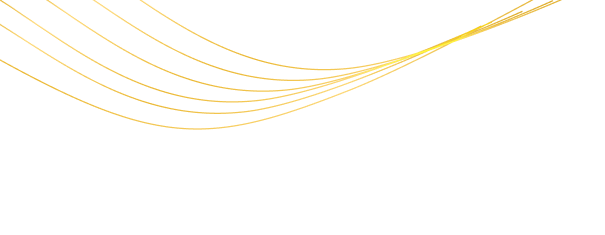
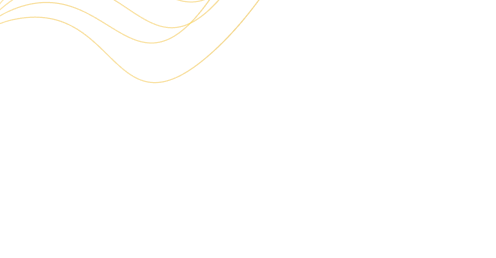
feat: hamburger final edits

diff --git a/src/styles/Hamburger.module.css b/src/styles/Hamburger.module.css
@@ -44,7 +44,7 @@
 .info{
     text-align: right;
     margin-top: 1rem;
-    margin-right: 1rem; 
+    margin-right: 2rem; 
     font-family: "Mulish";
 }
 .menu {
@@ -54,6 +54,7 @@
     display: flex;
     z-index: 20;
     position: fixed;
+    width: 100vw;
 }
 i {
   margin-left: 0.4rem;
@@ -92,8 +93,10 @@ i {
 .map {
   background: rgba(39, 39, 39, 0.4);
   border-radius: 14px;
+  overflow: hidden;
   margin: 3rem;
   width: 30%;
+  backdrop-filter: blur(2px);
   border: 2px solid #4e3800;
 }
 
@@ -125,24 +128,40 @@ i {
     bottom: 0;
     left: -17px;
     width: 17%;
+    mix-blend-mode: hard-light;
 }
 .br{
     position: absolute;
     bottom: 0;
     right: 0px;
     width: 17%;
+    mix-blend-mode: hard-light;
 }
 .tl{
     position: absolute;
     top: 0;
     left: -10px;
     width: 24%;
+    mix-blend-mode: hard-light;
 }
-.tr{
+.icon{
+    position: absolute;
+    width: 18px;
+    right: 2px;
+}
+.mt{
     position: absolute;
     top: 0;
-    right: 0px;
-    width: 30%;
+    left: 850px;
+    width: 23%;
+    mix-blend-mode: hard-light;
+}
+.mb{
+    position: absolute;
+    bottom: 0;
+    left: 600px;
+    width: 14%;
+    mix-blend-mode: hard-light;
 }
 .hamFull{
     width: 100vw;
@@ -154,6 +173,7 @@ i {
     content: '';
     display: block;
     position: absolute;
+    border-radius: 24px;
     background: linear-gradient(94.75deg, #D19A08 0%, #FEDB7E 27.6%, #EAC460 50%, #D19A08 66.15%, #D19A08 100%);
     width: 150px;
     left: 180px;
@@ -181,7 +201,10 @@ i {
     .bl{
         display: none;
     }
-    .tr{
+    .mt{
+        display: none;
+    }
+    .mb{
         display: none;
     }
     .br{
@@ -191,3 +214,29 @@ i {
         width: 80%;
     }
 }
+@media (max-width: 1300px) {
+    .heading{
+        font-size: 3rem;
+    }
+}
+@media (max-width: 1050px) {
+    .heading{
+        font-size: 2.5rem;
+    }
+    .text{
+        font-size: 1rem;
+    }
+}
+
+@media (max-width: 900px) {
+    .about{
+        display: none;
+    }
+    .map{
+        width: 60%;
+    }
+    .left{
+        width: 70%;
+    }
+}
+

diff --git a/src/Components/Hamburger.js b/src/Components/Hamburger.js
@@ -6,9 +6,11 @@ import HamburgerCSS from "../styles/Hamburger.module.css";
 import { doc } from "prettier";
 import bl from "../Assets/blHam.png";
 import br from "../Assets/brHam.png";
+import mb from "../Assets/mb.png";
+import mt from "../Assets/mt.png";
 import tr from "../Assets/trHam.png";
 import tl from "../Assets/tlHam.png";
-
+import icon from "../Assets/info.png"
 export default function Hamburger() {
     const [showMenu, setShowMenu] = React.useState(false)
     // const menuItem = useRef(null)
@@ -125,8 +127,9 @@ return (
         <div ref={el => (menuDiv = el)} id="menu" className={HamburgerCSS.menu}>
             <img src={bl} className={HamburgerCSS.bl}></img>
             <img src={br} className={HamburgerCSS.br}></img>
+            <img src={mt} className={HamburgerCSS.mt}></img>
+            <img src={mb} className={HamburgerCSS.mb}></img>
             <img src={tl} className={HamburgerCSS.tl}></img>
-            <img src={tr} className={HamburgerCSS.tr}></img>
             <div className={HamburgerCSS.left}>
                 <div className={HamburgerCSS.about}>
                     <div ref={el => (div1 = el)} className={HamburgerCSS.heading}>The 50th Oasis</div>
@@ -134,7 +137,7 @@ return (
                 </div>
                 <div className={HamburgerCSS.map}>
                     <iframe src="https://maps.google.com/maps?q=BITS%Pilani%&amp;t=&amp;z=13&amp;ie=UTF8&amp;iwloc=&amp;output=embed" width="100%" height="80%" allowfullscreen></iframe>
-                    <div className={HamburgerCSS.info}>how to get to Pilani? <i class="fa-solid fa-circle-info"></i></div>
+                    <div className={HamburgerCSS.info}>how to get to Pilani? <img src = {icon} className={HamburgerCSS.icon} /></div>
                 </div>
             </div>
             <div className={HamburgerCSS.right}>
